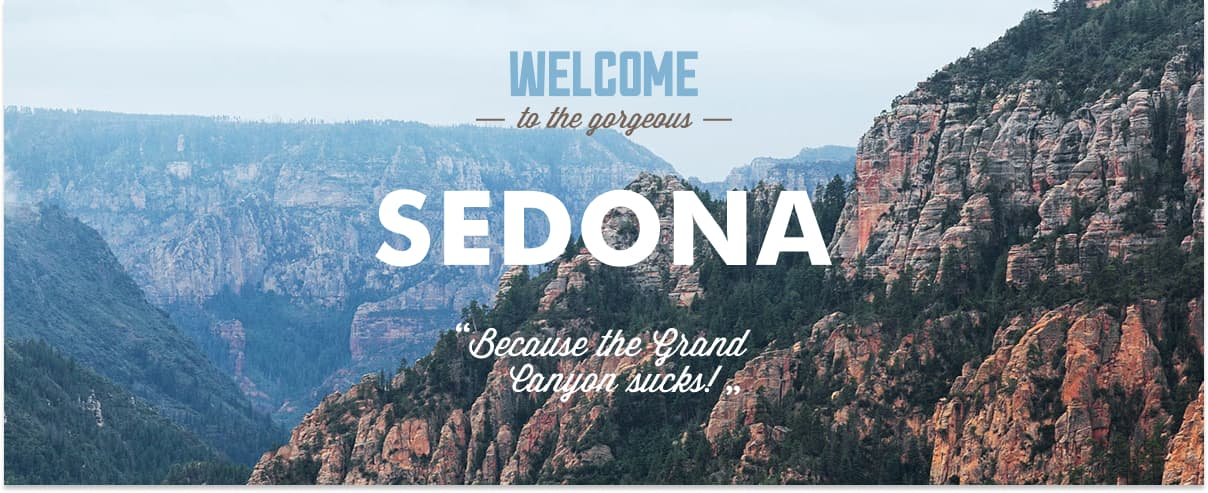
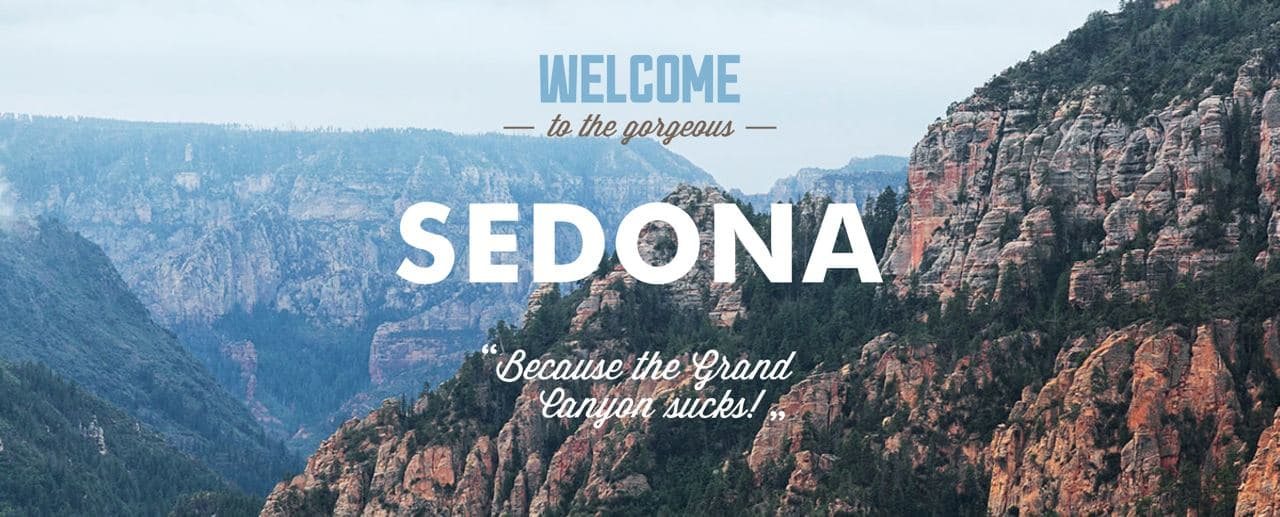
Добавляет приветственное изображение

diff --git a/index.html b/index.html
@@ -3,6 +3,7 @@
   <head>
     <meta charset="utf-8">
     <title>HTML Academy: Седона</title>
+    <link rel="stylesheet" href="styles/styles.css">
   </head>
     <body>
       <div class="content">
@@ -42,7 +43,7 @@
       <main class="main-index">
         <section class="welcome">
           <h1 class="visualy-hidden">Седона</h1>
-          <img class="welcome" src="/images/main/background-sedona.jpg" alt="Добро пожаловать в Седону" width="1200" height="485">
+          <img class="welcome" src="/images/main/welcome.jpg" alt="Добро пожаловать в прекрасную Седону" width="1200" height="485">
         </section>
         <section class="description">
           <h2 class="description-title">Седона - небольшой городок в Аризоне, заслуживающий большего</h2>
